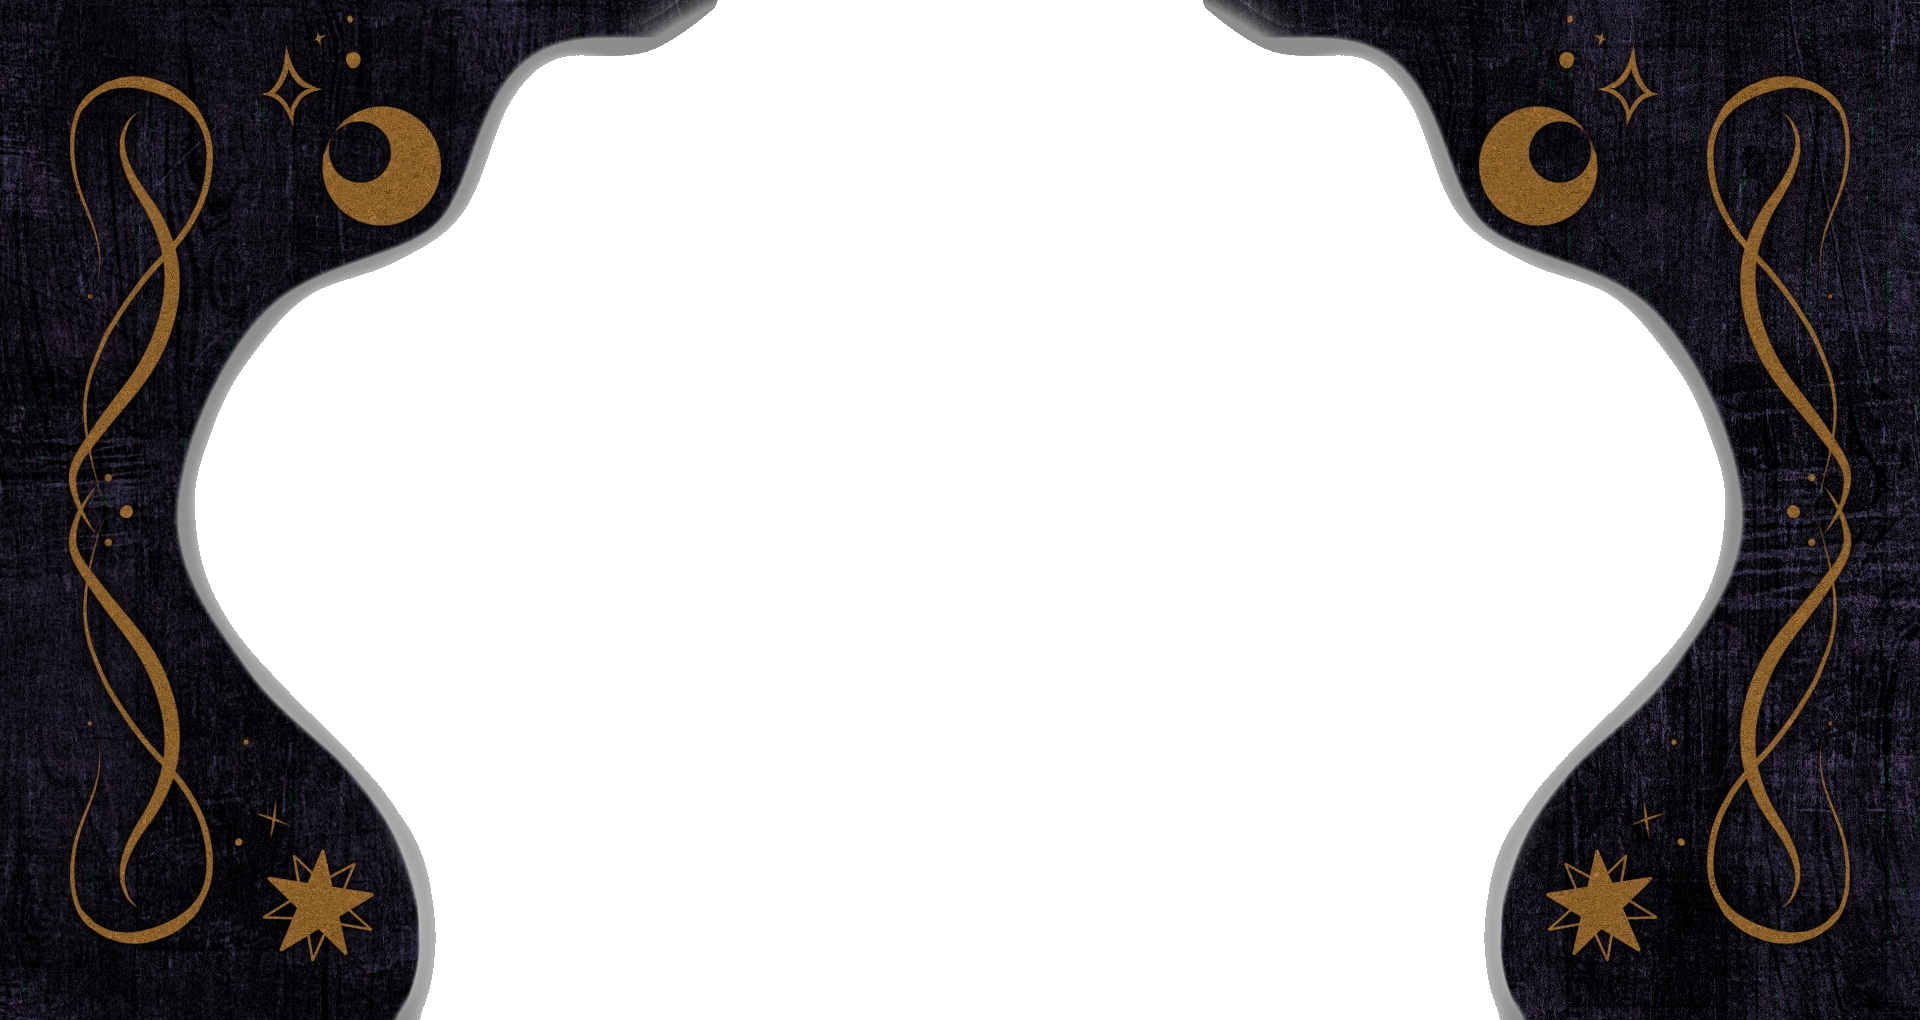
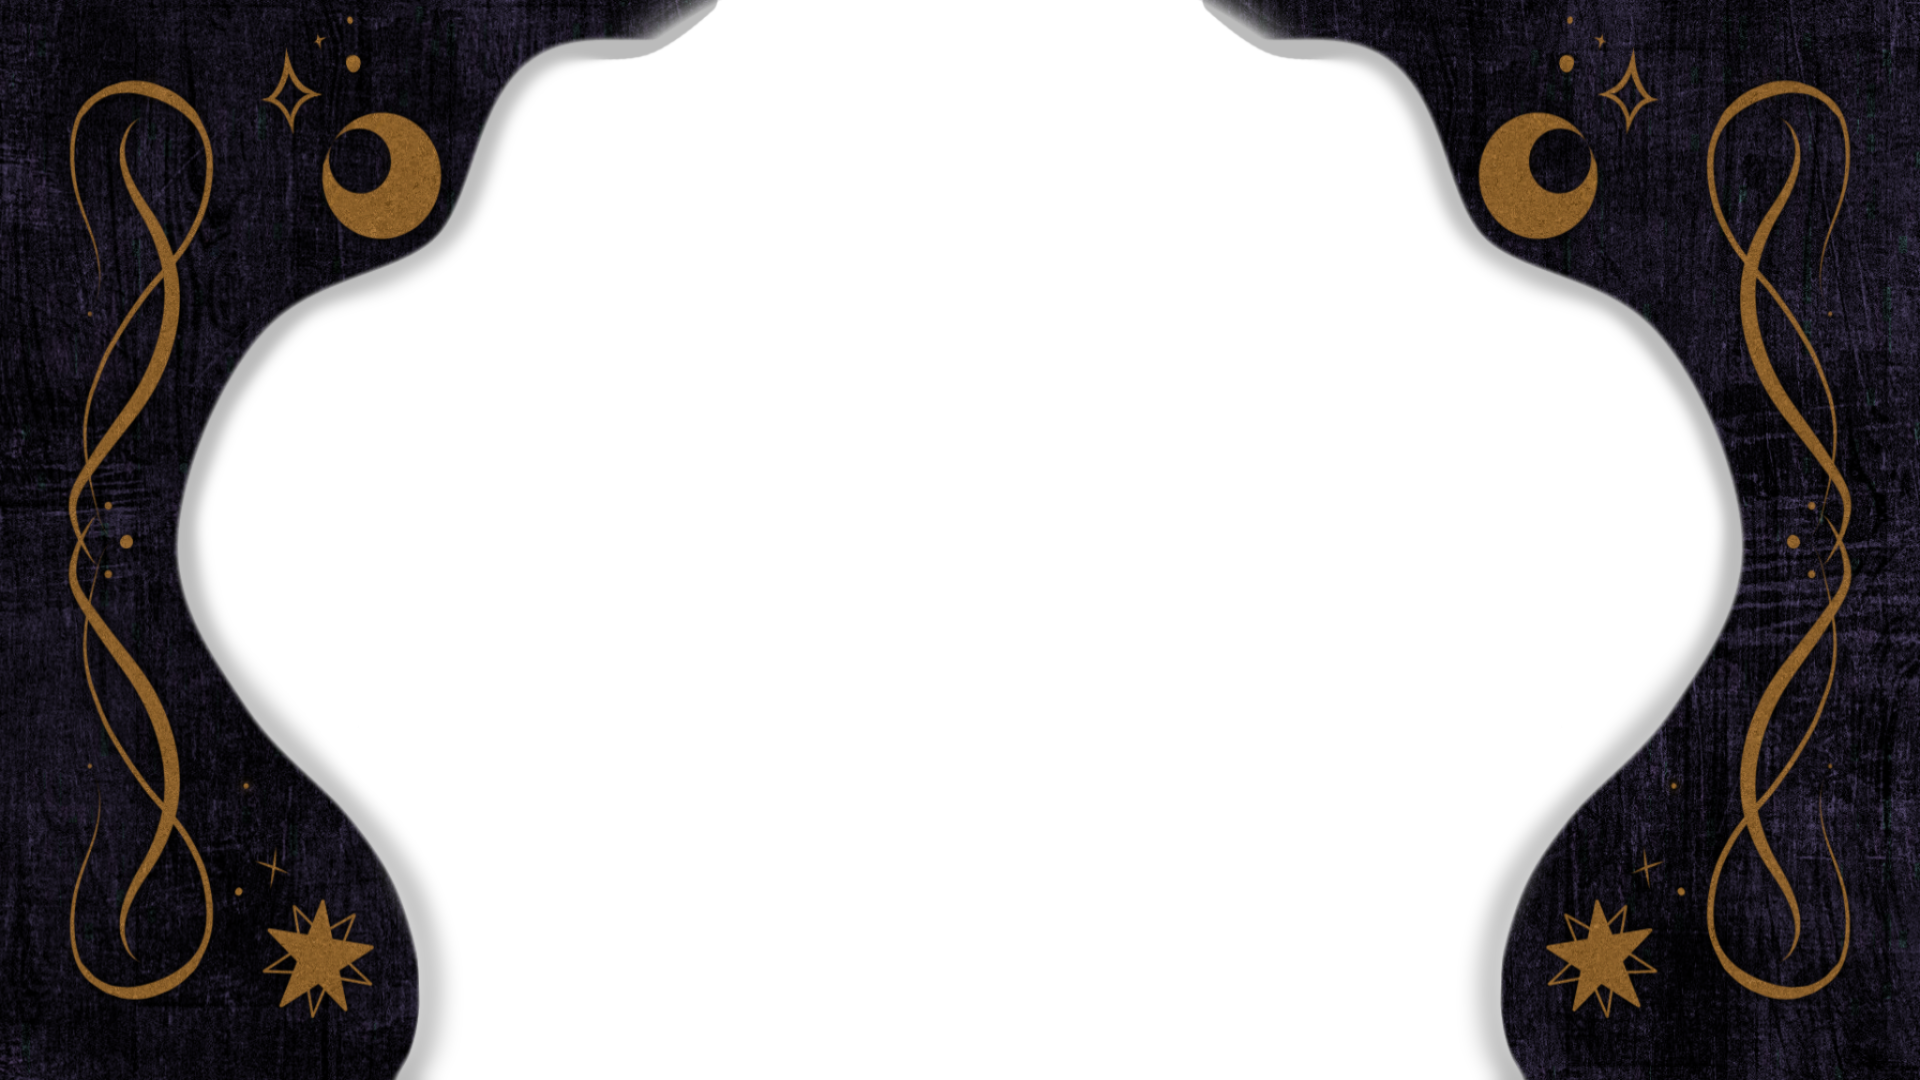
title

diff --git a/fortune_fraud.py b/fortune_fraud.py
@@ -19,7 +19,7 @@ pygame.display.set_caption("Fortune Fraud")
 #rectangle object that covers the entire screen (for testing purposes)
 screen_rect = screen.get_rect()
 #defines where the text box should be relative to the size of the screen (works-ish)
-text_center_x, text_center_y = int(screen_width * 0.5), int(screen_height * 0.7)
+text_center_x, text_center_y = int(screen_width * 0.4), int(screen_height * 0.8)
 text_width, text_height = int(screen_width * 0.5), int(screen_height * 0.2)
 text_rect = pygame.rect.Rect(text_center_x - (text_width//2), text_center_y - (text_height//2), text_width, text_height)
 
@@ -27,10 +27,11 @@ text_rect = pygame.rect.Rect(text_center_x - (text_width//2), text_center_y - (t
 clock = pygame.time.Clock()
 
 #load images
-background_image = pygame.image.load("assets/background.jpeg") 
-curtain_image = pygame.image.load("assets/curtain.png") 
-crystal_ball_image = pygame.image.load("assets/crystal_ball.png") 
-border_image = pygame.image.load("assets/border.png") 
+background_image = pygame.image.load("assets/background.PNG") 
+curtain_image = pygame.image.load("assets/curtain.PNG") 
+crystal_ball_image = pygame.image.load("assets/crystal_ball.PNG") 
+border_image = pygame.image.load("assets/border.PNG") 
+text_box_image = pygame.image.load("assets/text_box.PNG") 
 
 running = True
 while running:
@@ -52,9 +53,11 @@ while running:
     scale_to_fullscreen(screen, curtain_image)
     scale_to_fullscreen(screen, crystal_ball_image)
     scale_to_fullscreen(screen, border_image)
+    scale_to_fullscreen(screen, border_image)
+    scale_to_fullscreen(screen, text_box_image)
 
     test_text = "Ooh I am a mystical fortune teller and I want to tell you your very real fortuen hahahaksdhjfaklsdjfaljksjahsdlf asdhlf asdjf hasjkd faskdfalsjkdhfajshdfkahsdf"
-    textWrap(screen, test_text, "white", text_rect, pygame.font.Font("Vollkorn.ttf", 24))
+    textWrap(screen, test_text, "black", text_rect, pygame.font.Font("Vollkorn.ttf", 28))
    
 
     # flip() the display to put your work on screen

diff --git a/character.py b/character.py
@@ -1,6 +1,15 @@
 import pygame
+import json
+
+with open('dialogue.json') as f:
+    dialogue = json.load(f)
 
 #may be useful soon
 class Character():
-    def __init__(self):
+    def __init__(self, name):
+        self.name = name
+        dialogue_location = dialogue[self.name]
+        answers = []
+
+    def dialogue(self):
         pass
